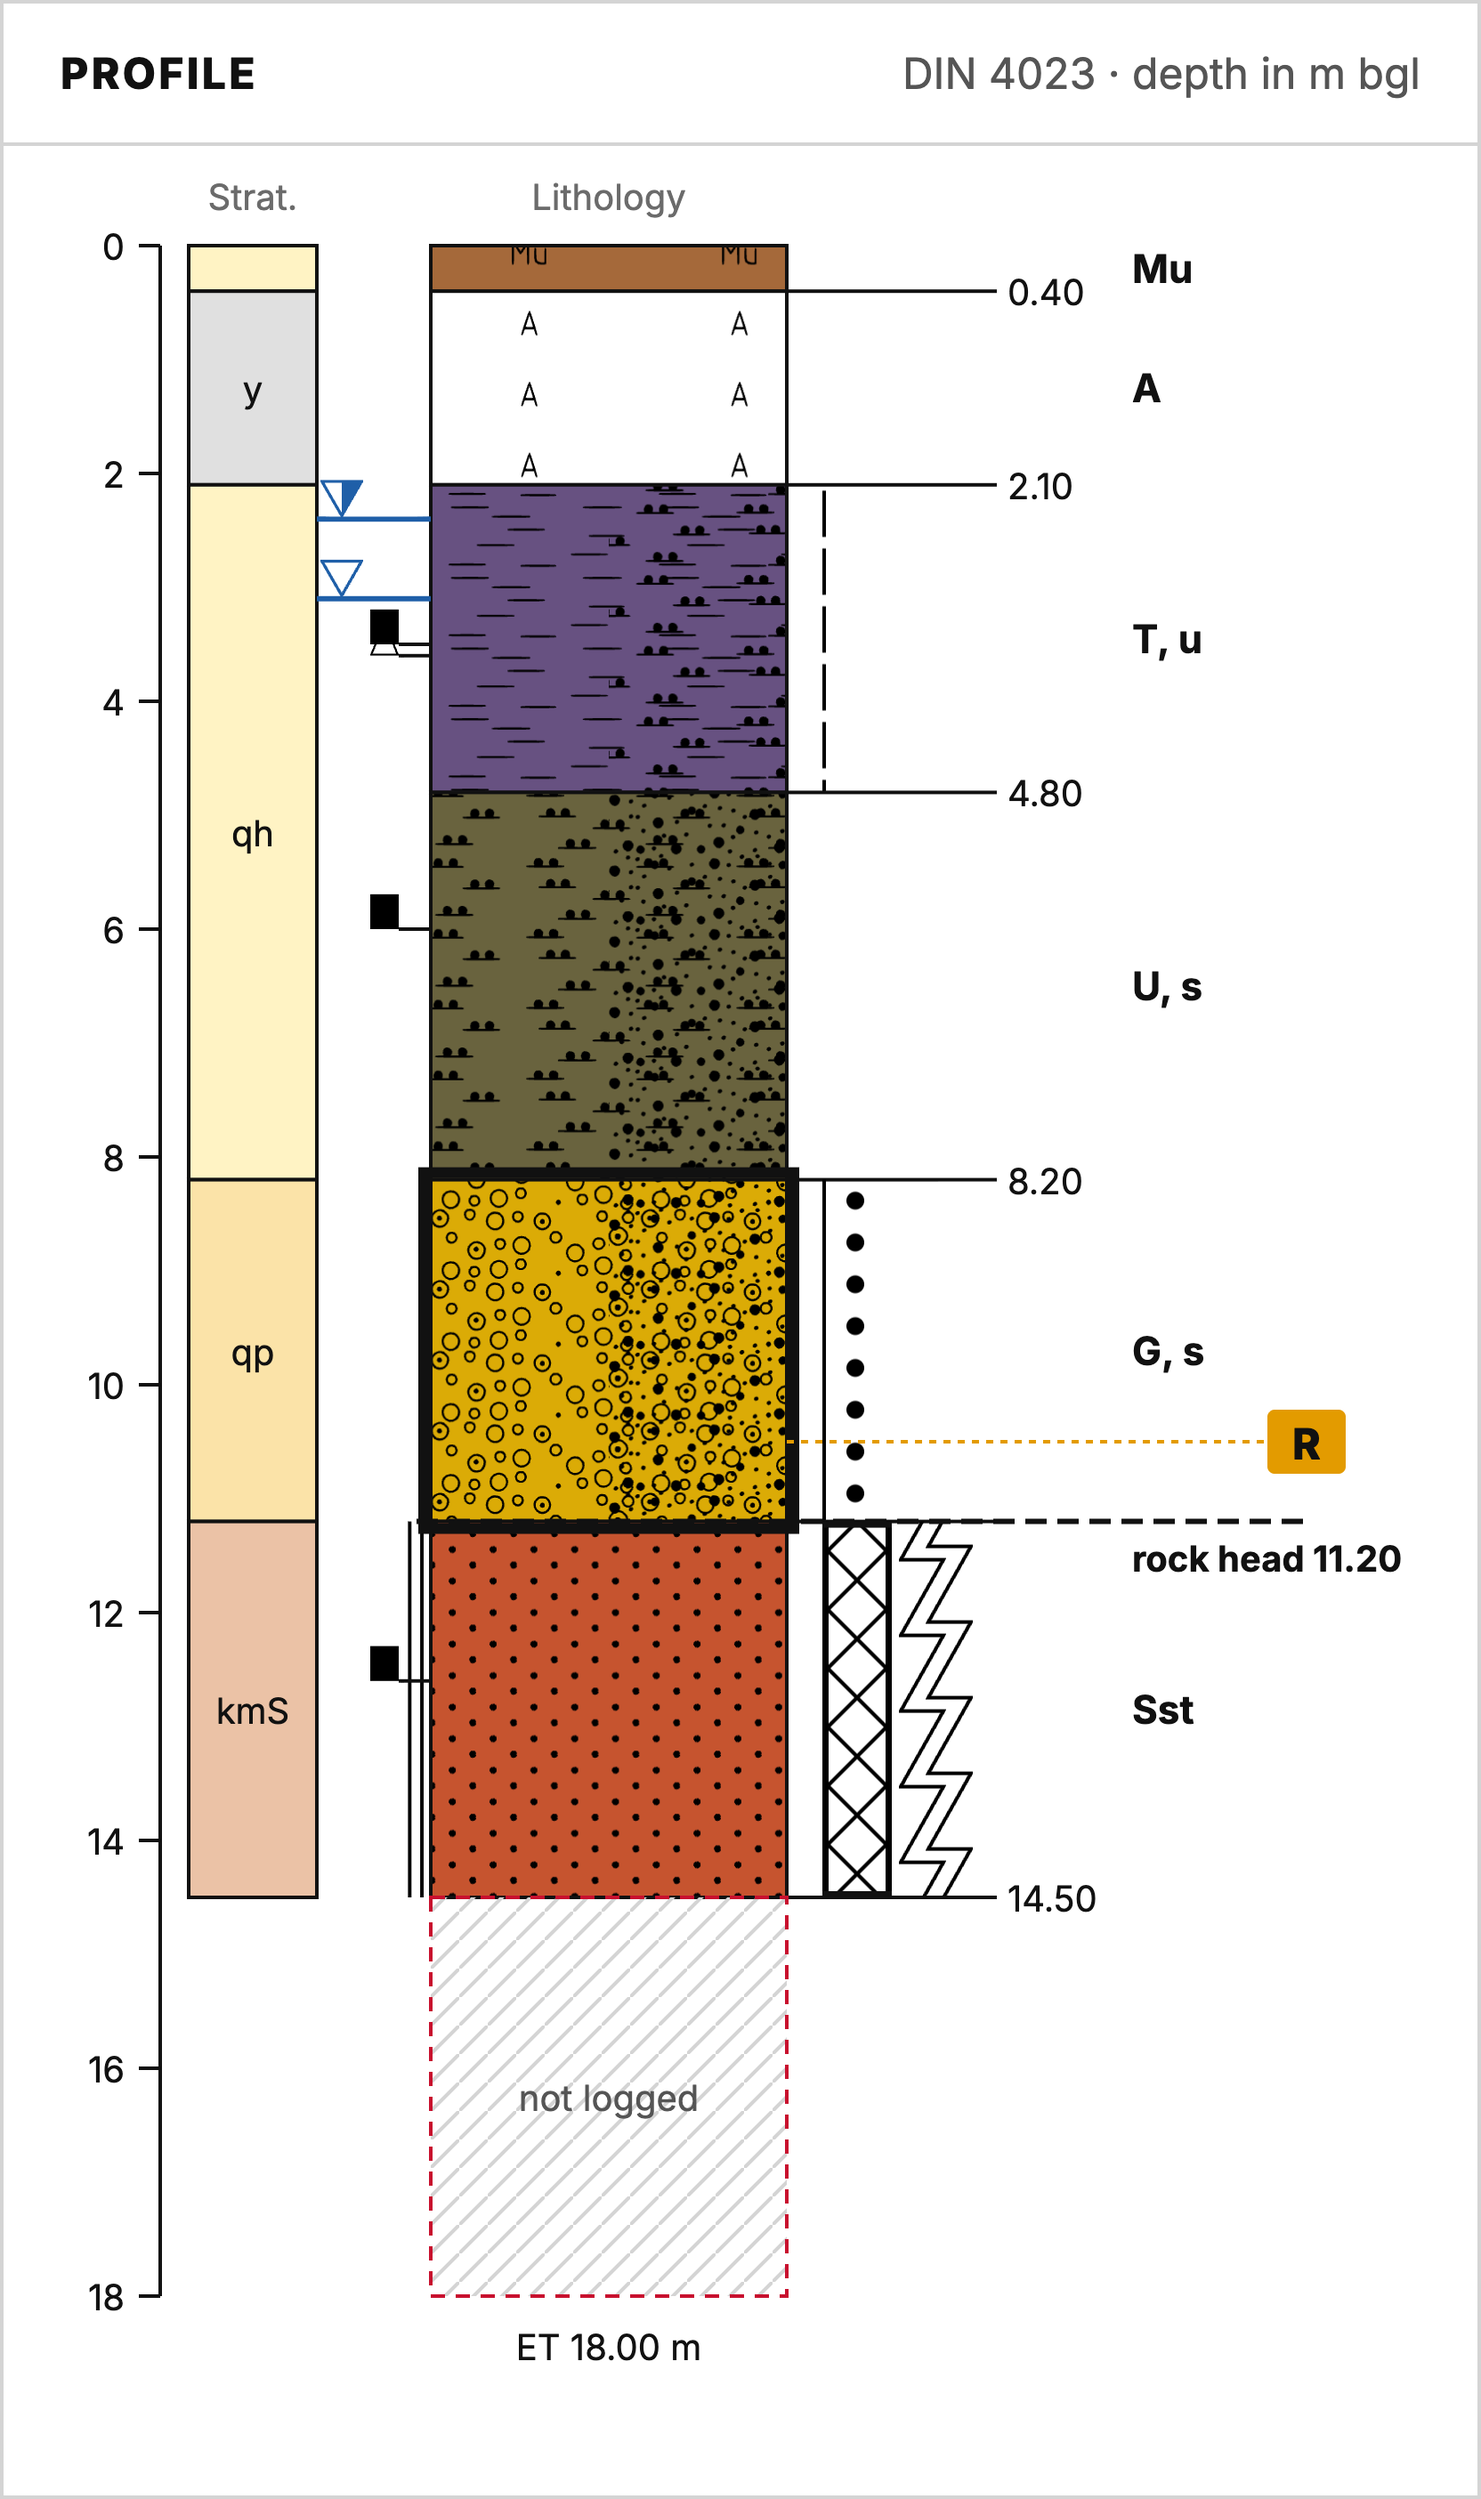
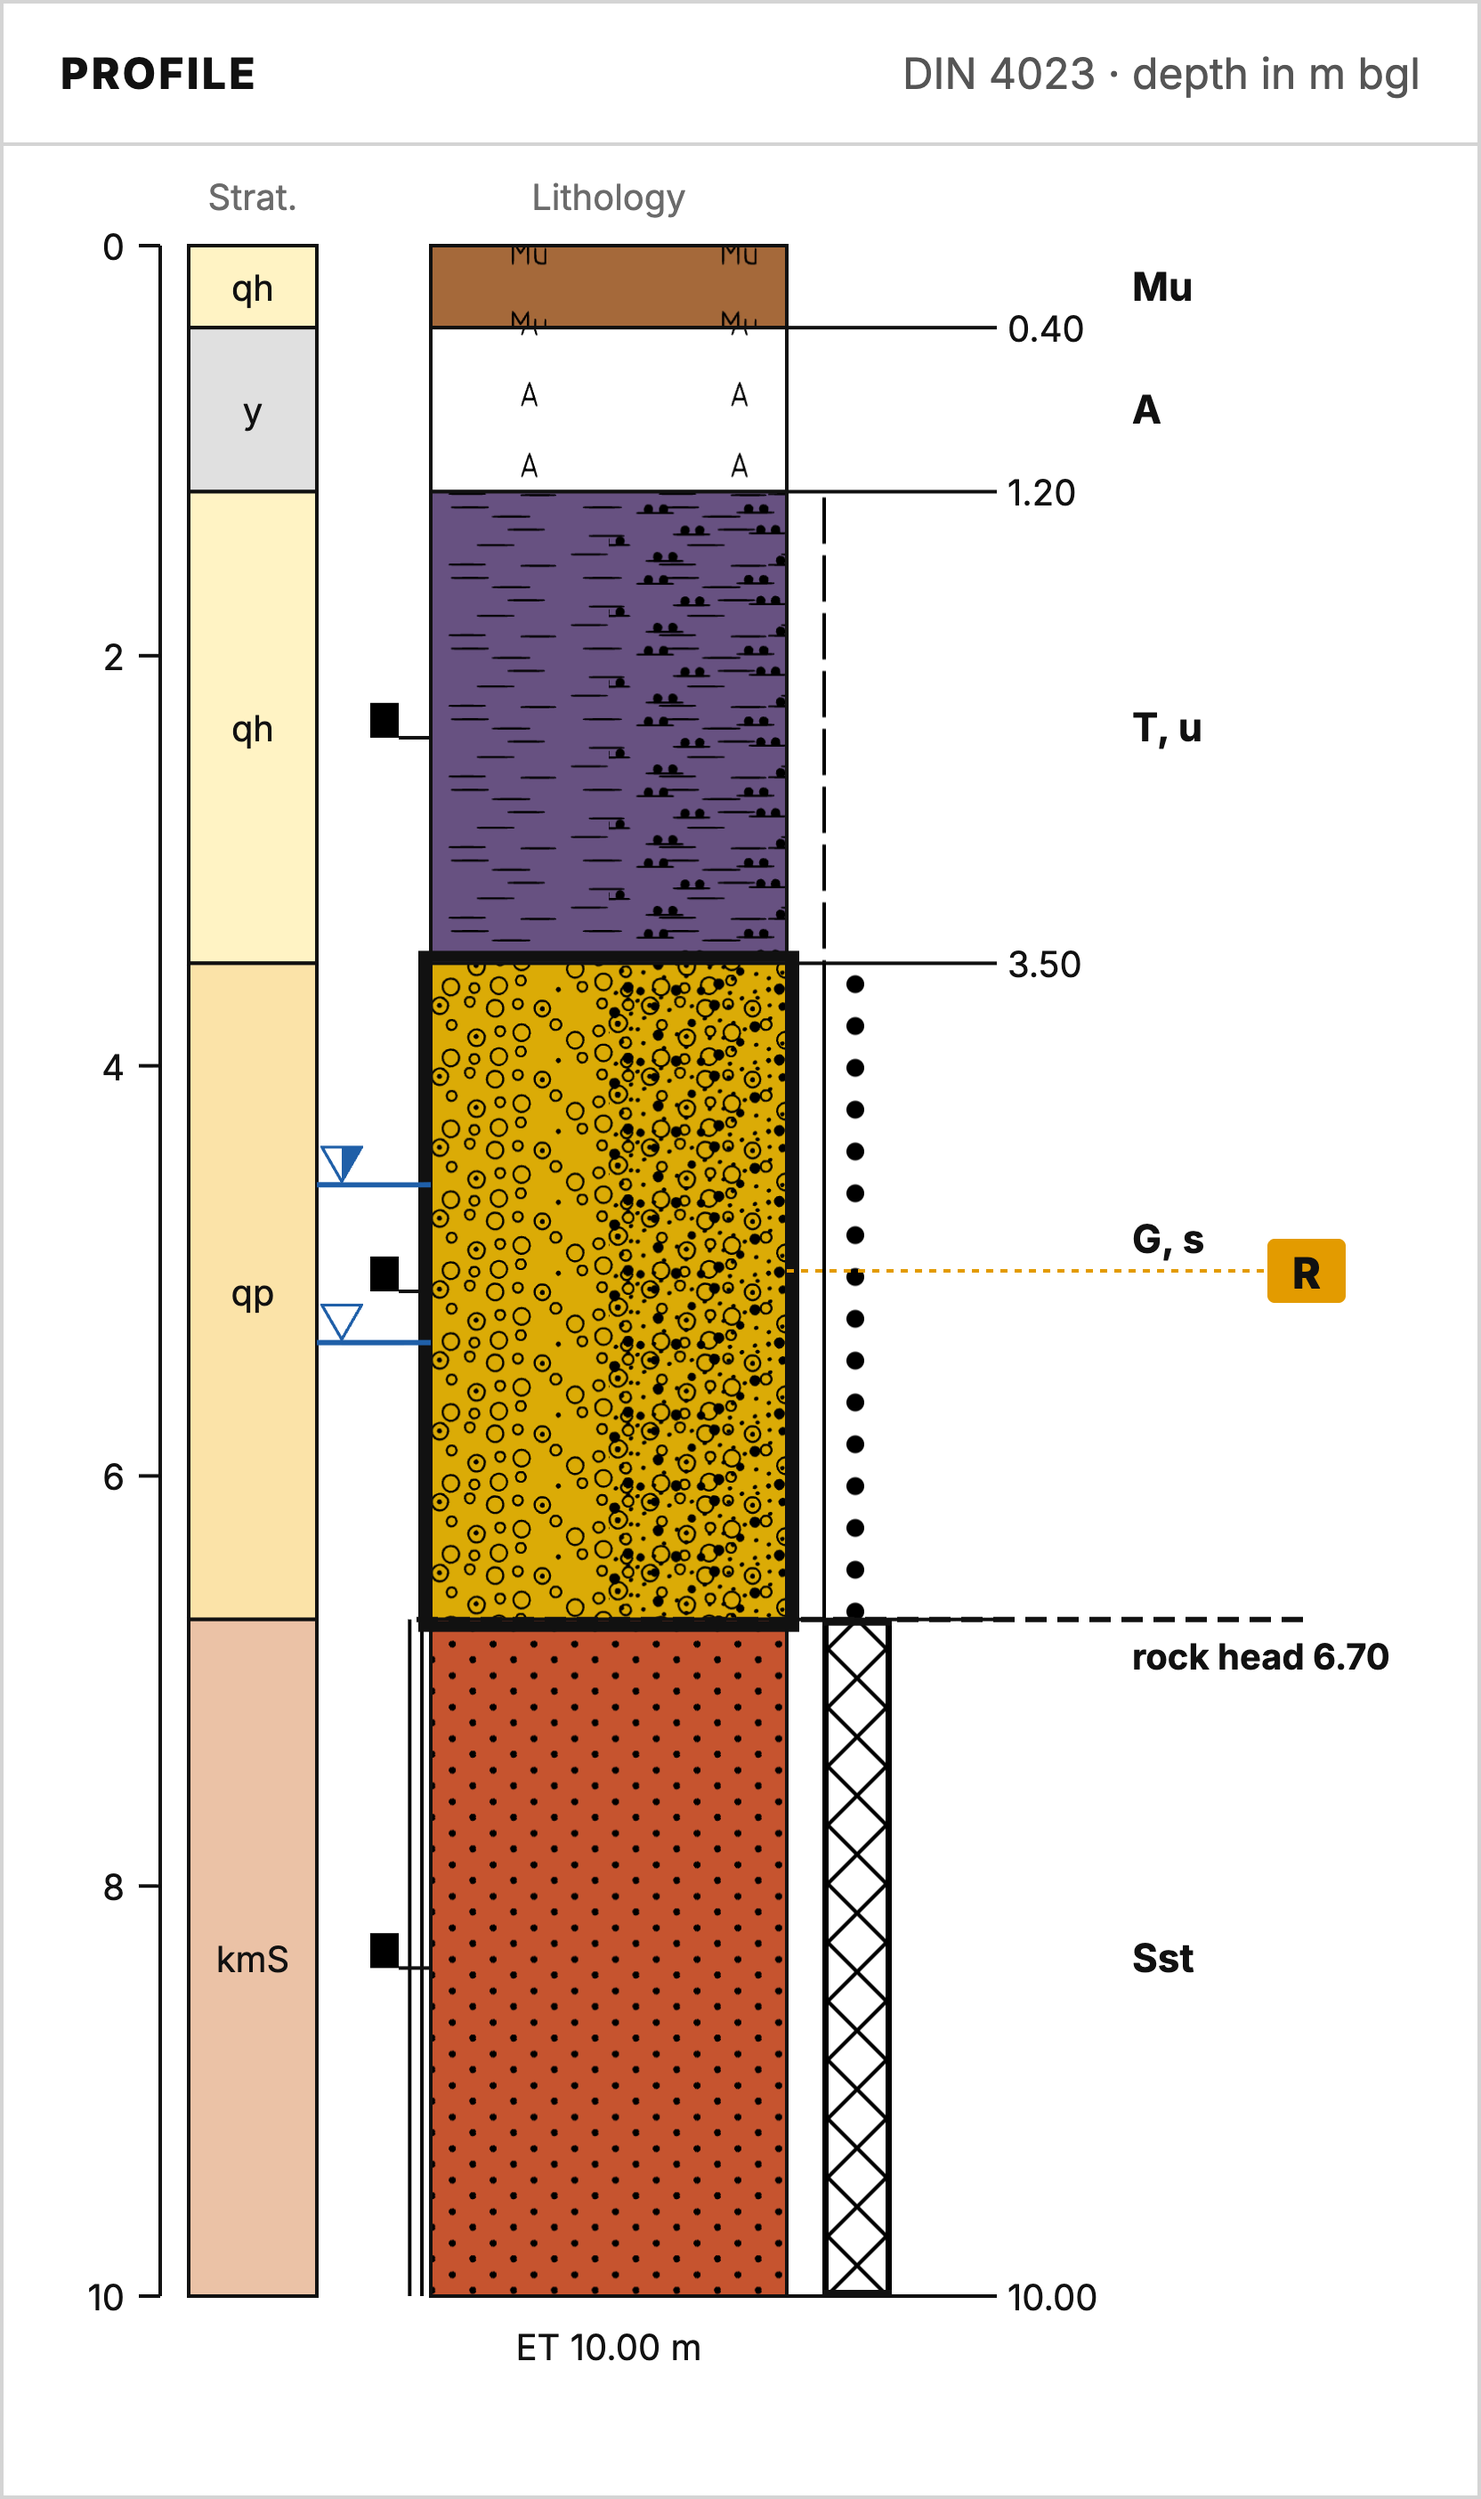
Profile slide: fully logged BK-01; Offenburg about 2,700; Lima as the South America example

diff --git a/presentation/bormisu/index.html b/presentation/bormisu/index.html
@@ -201,9 +201,9 @@
     <div class="signature" data-anim style="--d: 700ms;">Team Tiramisu · Herrenknecht challenge · BFH 2026</div>
   </section>
 
-  <!-- 02 PROFILE — our own product: the DIN 4023 profile of borehole BK-07 (sample data), captured at 4x -->
+  <!-- 02 PROFILE — our own product: the DIN 4023 profile of borehole BK-01 (sample data, fully logged), captured at 4x -->
   <section class="light hero-img profile center" data-label="02 Profile">
-    <div class="frame" data-anim style="--d: 100ms;"><img src="img/profile.png" alt="Bormisu: DIN 4023 borehole profile of BK-07" /></div>
+    <div class="frame" data-anim style="--d: 100ms;"><img src="img/profile.png" alt="Bormisu: DIN 4023 borehole profile of BK-01" /></div>
   </section>
 
   <!-- 03 OFFENBURG — boreholes around Offenburg in the LGRB borehole map -->

diff --git a/presentation/bormisu/Script.md b/presentation/bormisu/Script.md
@@ -14,7 +14,7 @@
 
 *(borehole map of Offenburg — every bubble is a cluster of boreholes)*
 
-> And you don't drill just one. In Offenburg alone, there are almost 3,000.
+> And you don't drill just one. In Offenburg alone, there are about 2,700.
 > This data is all kept on one website. But even here, it doesn't follow one standard — and pieces are missing.
 
 ## 04 · World (~25 s)
@@ -22,7 +22,7 @@
 *(the map zooms out from Offenburg to the world; countries with Herrenknecht projects light up, one dot per machine)*
 
 > But Herrenknecht — one of Europe's hidden champions — doesn't only work in Offenburg. It works all over the world.
-> They build the machines for the Paris Metro. The airport link in Hong Kong. And in South America, SOUTH_AMERICA_EXAMPLE.
+> They build the machines for the Paris Metro. The airport link in Hong Kong. And in South America, the new metro in Lima.
 
 ## 05 · Stuttgart 21 🤫 (~5 s)
 
@@ -81,14 +81,15 @@
 - Gotthard Base Tunnel bored with Herrenknecht machines: [Herrenknecht press release](https://www.herrenknecht.com/en/newsroom/pressreleasedetail/gotthard-base-tunnel-mechanized-tunnelling-completed-on-the-north-side/), [Wikipedia](https://en.wikipedia.org/wiki/Herrenknecht)
 - London Crossrail / Elizabeth line, TBMs built by Herrenknecht: [gfxspeak](https://gfxspeak.com/archives/burrowing-machines-crossrail/), [The Construction Index](https://www.theconstructionindex.co.uk/news/view/crossrail-tbm-ellie-breaks-through-in-docklands?amp=1)
 - Grand Paris Express, 19 Herrenknecht TBMs: [Tunnelbuilder](https://tunnelbuilder.com/News/Launch-of-the-first-TBM-for-the-Grand-Paris-Express-.aspx)
+- Lima Metro Line 2 (Peru), two TBMs built by Herrenknecht: [Tunnelbuilder](https://tunnelbuilder.com/News/Assembly-started-of-TBM-for-metro-Line-2-in-Peru-.aspx), [Webuild](https://www.webuildvalue.com/en/stories-behind-projects/delia-arrives-at-the-e17-station-on-limas-new-subway-line.html)
 - Hong Kong Tuen Mun–Chek Lap Kok, 17.6 m Mixshield, largest TBM: [Herrenknecht reference](https://herrenknecht.com/en/references/referencesdetail/hong-kong-tuen-mun-chek-lap-kok-link), [Guinness](https://www.guinnessworldrecords.com/world-records/78259-largest-tunnel-boring-machine)
 - Stuttgart 21 Filder Tunnel, Herrenknecht TBM "SUSE": [Herrenknecht press release](https://herrenknecht.com/en/newsroom/pressreleasedetail/suse-sibylle-wanda-and-kaethchen-from-baden-set-a-fast-pace-in-swabia)
 
 ### Images
 
 - Stuttgart 21: construction photo of the main station (`img/s21.jpg`, supplied by Mateo).
-- Profile: screenshot of borehole BK-07 (fictional sample data) on the Bormisu detail screen (`img/profile.png`).
-- Offenburg: screenshot of the LGRB borehole map around Offenburg (`img/offenburg-map.jpg`, supplied by Mateo).
+- Profile: DIN 4023 profile of borehole BK-01 (fictional sample data, fully logged) from the Bormisu detail screen (`img/profile.png`).
+- Offenburg: screenshot of the LGRB borehole map around Offenburg (`img/offenburg-map.jpg`, supplied by Mateo). The bubbles on the screenshot add up to about 2,680 boreholes (115 clusters = 2,668, plus 13 single points); a few clusters cut off at the edges are not fully counted.
 - Reports, front: `ToughOne1` p2 (Norway, handwritten), `AF02` p1 (Spanish soil probe sheet), `SEA01` p1 (Korean). Background: 27 more pages from the challenge dataset (`img/bg/`).
 
 ### Slide 09 (sovereignty)
